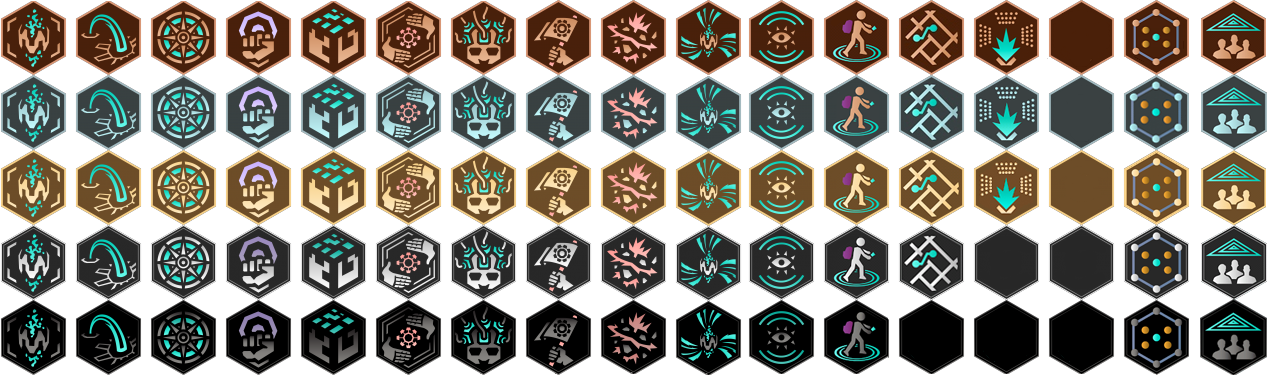
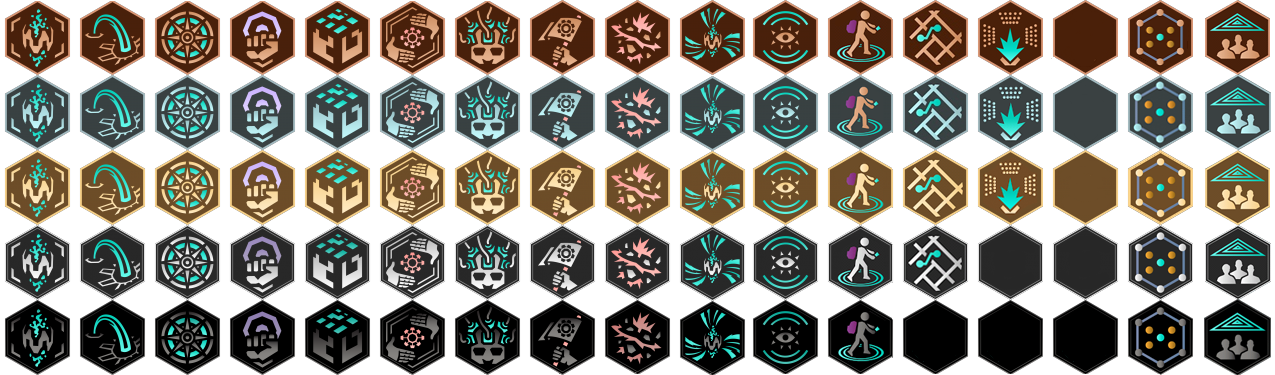
fix badge positioning
changes badge sprite positioning

diff --git a/resources/css/style.less b/resources/css/style.less
@@ -329,11 +329,11 @@ table {
 .badge-icon-75.trekker.platinum { background-position: -825px -225px; }
 .badge-icon-75.trekker.onyx     { background-position: -825px -300px; }
 
-.badge-icon-75.illuminator.bronze   { background-position: -1250px 0px; }
-.badge-icon-75.illuminator.silver   { background-position: -1250px -75px; }
-.badge-icon-75.illuminator.gold     { background-position: -1250px -150px; }
-.badge-icon-75.illuminator.platinum { background-position: -1250px -225px; }
-.badge-icon-75.illuminator.onyx     { background-position: -1250px -300px; }
+.badge-icon-75.illuminator.bronze   { background-position: -1200px 0px; }
+.badge-icon-75.illuminator.silver   { background-position: -1200px -75px; }
+.badge-icon-75.illuminator.gold     { background-position: -1200px -150px; }
+.badge-icon-75.illuminator.platinum { background-position: -1200px -225px; }
+.badge-icon-75.illuminator.onyx     { background-position: -1200px -300px; }
 
 .container {
 	.item { 
